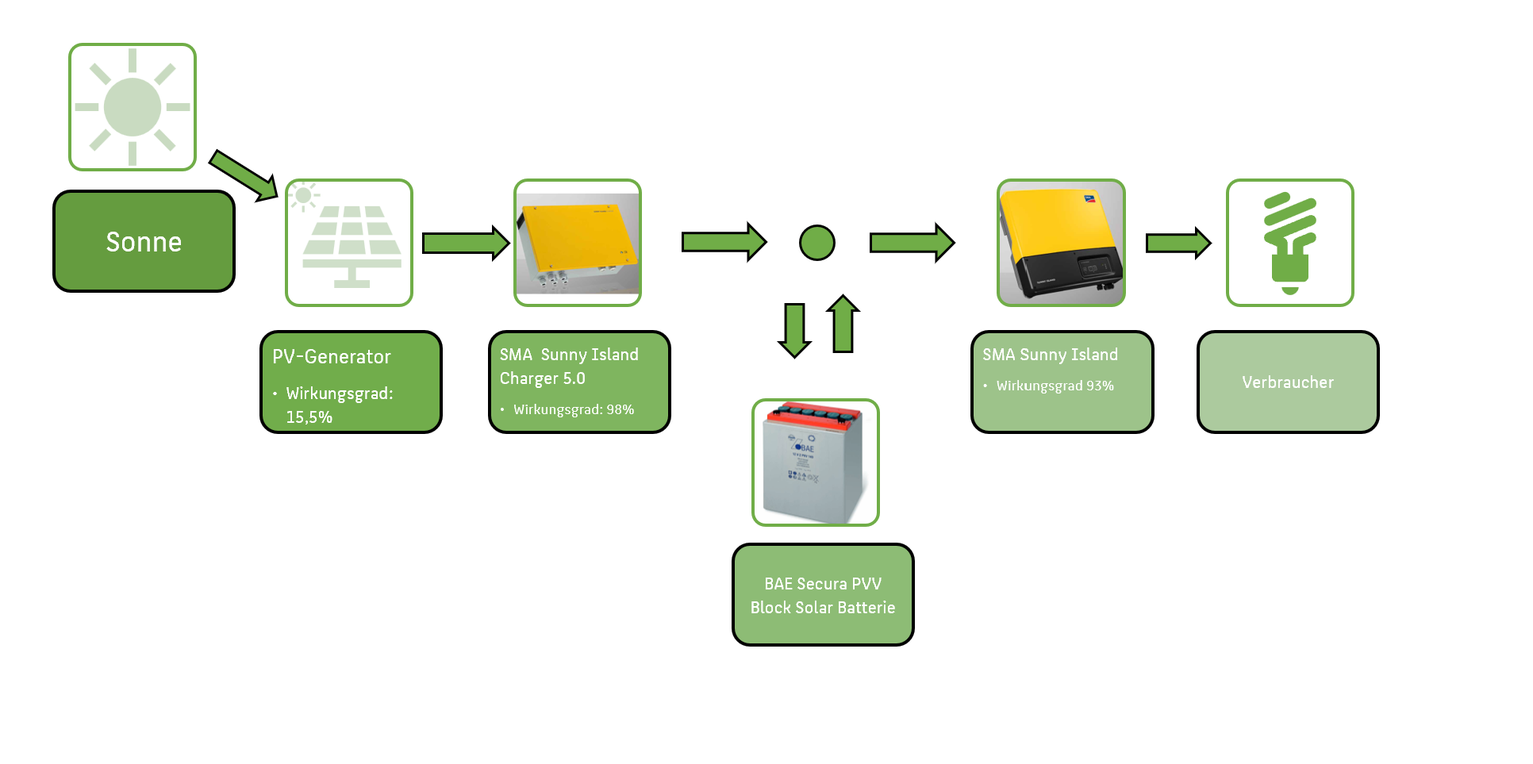
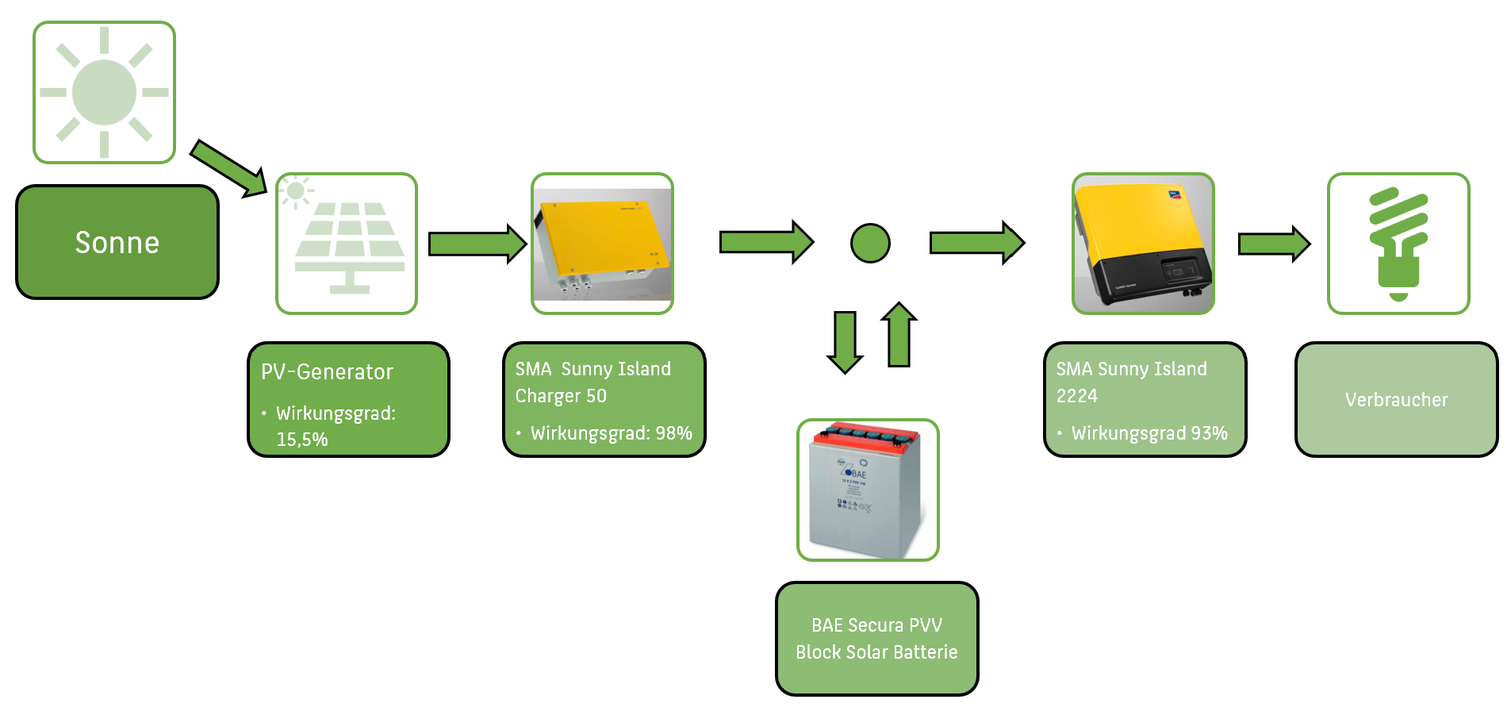
PV-Insel letzter Stand

Changed region(s): [[0.0, 0.0303, 1.0, 1.0]]

diff --git a/PV-Inselbetrieb/Sub-Files/Vorbereitungsfragen.tex b/PV-Inselbetrieb/Sub-Files/Vorbereitungsfragen.tex
@@ -2,18 +2,18 @@
 \section{Vorbereitungsfragen}
 \subsection{Photovoltaik-Inselanlage}
 \subsubsection{Anlagenkonzepte von PV-Inselanlagen }
-Die Konzepte unterscheiden durch die verwendeten
+Anlagenkonzepte unterscheiden sich durch die verwendeten
 Komponenten, die Verschaltung und die angeschlossenen Verbraucher.\\
-Das einfachste der vier Konzepte ist das direkte Verschalten der PV-Anlage mit
+Das einfachste Konzept ist das direkte Verschalten der PV-Anlage mit
 DC-Verbrauchern, hierbei kann es sich z.B. um ein Heizungssystem für ein Schwimmbecken handeln.\\
 Das zweite System wird durch eine Batterie ergänzt welche zwischen die PV-Anlage und die Verbraucher geschaltet ist.
 Mögliche Anwendungen sind einfache DC-Systeme, welche allerdings auch außerhalb der Sonnenstunden
 funktionieren müssen und dementsprechend einen Puffer benötigen. Ein Beispiel wäre hier ein solarversorgter Snackautomat.\\
-Das komplexeste System welches weiterhin für DC-Verbraucher gedacht ist, wird neben den Komponenten des zweiten Systems
+Das komplexeste System, welches weiterhin für DC-Verbraucher gedacht ist, wird neben den Komponenten des zweiten Systems
 um einen Laderegler ergänzt welcher vor die Batterie geschaltet wird. Solche Systeme werden häufig in
 Wohnmobilen oder Wohnwägen verwendet, welche mit DC-Verbrauchern ausgestattet sind.\\
 Um AC-Verbraucher nutzen zu können muss System 3 um einen Umrichter erweitert werden, welcher vor die Verbraucher geschaltet wird. Diese Systeme können dann Einfamilienhäuser, Forschungsstationen oder abgelegene Dörfer versorgen und ein Netz etablieren.\\ 
-\subsubsection{Die Anlagenkomponenten sollen im Inselsystem auf ihre Funktionsfähigkeit hin geprüft werden. Was messen Sie in welcher Reihenfolge?}
+\subsubsection{Prüfung der Funktionsfähigkeit von Anlagenkomponenten}
 Gemessen werden an allen Ein- und Ausgängen der Geräte sowohl der Strom als auch die Spannung.
 Beginnend mit dem Ausgang der PV-Anlage, wird dann entlang der Erzeugungslinie geprüft.
 So folgt die Prüfung des Ladereglers. Anschließend wird das Batteriesystem geprüft und abschließend der 
@@ -21,7 +21,7 @@ Umrichter.\\
 
 
 \subsection{Laderregler}
-\subsubsection{Welche Voraussetzungen müssen Anlagen mit Akku ohne Laderegler haben? Wann wird ein Laderegler notwendig?}
+\subsubsection{Voraussetzungen für Anlagen mit Akku ohne Laderegler}
 Inselnetzanlagen müssen in der Lage sein, die Ladung des Akkus und die Stromversorgung des angeschlossenen Verbrauchers zu gewährleisten. Dementsprechend müssen die einzelnen Bauteile aufeinander ausgelegt werden, um eine Beschädigung der Komponenten zu vermeiden. Ein Laderegler wird benötigt, sobald die Leerlaufspannung der Module die maximale Ladespannung der Batterie überschreitet, eine spannungsunabhängige Schaltung umgesetzt werden soll (bei größeren Anlagen) oder keine konstanten Wetterbedingungen garantiert werden können. Ein Laderegler sorgt dafür die Batterie vor Tiefenentladung und/oder Überladung zu schützen. In Kombination mit einem MPP-Tracker kann ein Laderegler auch den Energieertrag erhöhen. 
 \subsubsection{Verfahren zur Laderegelung}
 Es wird in drei unterschiedliche Arten von Ladereglern (LR) unterschieden:
@@ -46,9 +46,9 @@ Es wird in drei unterschiedliche Arten von Ladereglern (LR) unterschieden:
 \item MPP-Laderegler können auch bei wechselnden Wetterbedingungen beste Ladeleistungen erreichen. Nachteilig sind allerdings die hohen Anschaffungskosten.
 
 \end{itemize}
-\subsubsection{Es soll eine defekte Batterie des Batteriesystems aus der Anlage gewechselt werden. Geben Sie die Reihenfolge Ihres Vorgehens schrittweise an.}
-Das Wechseln der Batterie erfolgt in 7 einzelnen Schritten. Als erste sollte die Betriebsanleitung gelesen und danach die Last abgeschaltet und vom System getrennt werden. Darauffolgend muss sowohl der PV-Generator als auch die Batterie vom Laderegler getrennt werden. Nun kann die neue Batterie und dann der PV-Generator an den Laderegler angeschlossen werden. Als letztes wird die Last wieder angeschaltet.
-
+\subsubsection{Austausch defekter Batterien}
+Das Wechseln der Batterie erfolgt in sieben einzelnen Schritten. Als erstes sollte die Betriebsanleitung gelesen und danach die Last abgeschaltet und vom System getrennt werden. Darauffolgend muss sowohl der PV-Generator als auch die Batterie vom Laderegler getrennt werden. Nun kann die neue Batterie und dann der PV-Generator an den Laderegler angeschlossen werden. Als letztes wird die Last wieder angeschaltet.
+\newpage
 \subsection{Batteriesysteme}
 \subsubsection{Vor- und Nachteile von 2 Batterietypen}
 Die beiden am häufigsten verwendeten Akkumulatoren sind Blei- und Lithium-Ionen-Akkus.
@@ -58,11 +58,10 @@ Bei der Ladereglung von Batteriesystemen ist es besonders wichtig auf die Ladest
 
 \subsubsection{ Anforderungen an Batterieräume }
 Ein Batterieraum sollte trocken, gut belüftet, mit einem Rauchmelder ausgestattet und gleichmäßig im zulässigen Temperaturbereich temperiert sein.
-\subsubsection{Geben Sie die häufig eingesetzten Systemspannungen an! Was ist bei Gleichspannungsverbrauchern (insbesondere bei niedriger Spannung) im Vergleich zu Wechselstromverbrauchern zu beachten?}
-Häufige Systemspannungen sind 12 V, 24V, 48V, und 72V.
-Bei DC-Verbrauchern kann es zu hohen Strömen kommen weshalb große Kabelquerschnitte vorteilhafter sind.
-
-
+\subsubsection{Häufig eingesetzten Systemspannungen}
+Häufige eingesetzte Systemspannungen sind 12 V, 24V, 48V, und 72V.
+Bei DC-Verbrauchern kann es zu hohen Strömen kommen, weshalb große Kabelquerschnitte vorteilhafter sind.
+\newpage
 \subsection{Wechselrichter in PV-Inselanlagen}
 \subsubsection{Auswahlkriterien eines Insel-Wechselrichters}
 \begin{itemize}
@@ -71,15 +70,15 @@ Bei DC-Verbrauchern kann es zu hohen Strömen kommen weshalb große Kabelquersch
     \item Der Wirkungsgradbereich muss nach dem Lastverhalten des Inselnetzes ausgelegt werden.
     \item Der Umrichter muss die gleiche Phasen-Anzahl besitzen wie das System benötigt.
 \end{itemize}
-\subsubsection{Welche Insel-Wechselrichter-Typen können zum Einsatz kommen (Kosten beachten)?}
+\subsubsection{Insel-Wechselrichter-Typen}
 Mögliche Umrichter Typen:
 \begin{itemize}
     \item mit oder ohne inneren Trafo
     \item 3 Level oder Multi Level
-    \item 1 oder 3 Phasig
+    \item ein oder drei Phasig
     \item Single- oder Multistring
 \end{itemize} 
-\subsubsection{Woran erkennen Sie während des Betriebes einen 'schlechten' Wechselrichter? (niedriger Wirkungsgrad)?}
+\subsubsection{Schlechte Wechselrichter}
 
 \begin{itemize}
     \item Die Qualität der Spannung ist durch Oberschwingungen und Verzerrungen unzureichend.
@@ -101,39 +100,37 @@ Mögliche Umrichter Typen:
     \item Die Umrichter sollten für Wartungszwecke leicht zugänglich sein.
     \item Ein Brand sollte möglichst schnell erkannt werden, durch z.B. Brandmelder und sollte keine anderen Komponenten beeinflussen (durch genügend Abstand oder Abschirmung).
 \end{itemize}
-\subsubsection{Unter welchen Umständen muss am WR einer PV-Inselanlage sofortige Lastabschaltung erfolgen?}
+\subsubsection{Sofortige Lastabschaltung des Wechselrichters}
 Bei jedweder Gefahr für die Verbraucher:
 \begin{itemize}
     \item Überspannungen durch z.B. Blitzeinschlag
     \item Kurzschlüsse durch z.B. Hochwasser
-    \item Bei Feuer am Umrichter.
+    \item Feuer am Umrichter.
 \end{itemize}
-\subsubsection{Wie wirkt sich die benötigte Blindleistung auf die Dimensionierung des Wechselrichters aus?}
+\subsubsection{Auswirkungen der benötigten Blindleistung auf Dimensionierung des Wechselrichters}
 Durch zusätzlich benötigte Blindleistung muss der Umrichter nicht auf die Leistung des PV-Generators ausgelegt werden, sondern auf die Scheinleistung, welches er ins Netz geben muss.
 Diese wird also zusätzlich innerhalb des Umrichters generiert, führt aber zu größeren Leistungflüssen.\cite{SMA_Q-Auslegung}
 \subsubsection{Ein PC (einschließlich Peripherie) benötigt 120 W. Der Inselwechselrichter der unter 3. beschriebenen Anlage schaltet wegen Batterieerschöpfung nach 2 Tagen Betriebsdauer ab. Welche Möglichkeit des Dauerbetriebs der Anlage schlagen Sie vor. Begründen Sie die Realisierbarkeit.}
-Es wird ein Umrichter benötigt, welcher sowohl spannungsgeregelt als auch stromgereglet betrieben werden kann, um zwischen Insel- und Netzbetrieb wechseln zu können.
+Es wird ein sowohl Spannung als auch Strom regelnder Umrichter benötigt, um zwischen Insel- und Netzbetrieb wechseln zu können.
+\newpage
 \subsection{Einstrahlung und Umgebungsbedingungen}
-\subsubsection{Welche aus verschiedenen physikalischen Prinzipien resultierenden Messverfahren zur Erfassung der Globalstrahlung kennen Sie?}
+\subsubsection{Messverfahren zur Erfassung der Globalstrahlung}
 Es gibt 2 Physikalische Effekte, welche konventionell zur Messung der Globalstrahlung verwendet werden. 
 Der Photo-Effekt, welcher in Pyranometern mit Halbleitersensoren verwendet wird. 
 Dieser Basiert auf dem selben Prinzip wie eine Photovoltaikzelle und setzt die Einstrahlung in Proportion mit dem Strom.
-Außerdem kann der Seebeck-Effekt genutzt werden, welcher in thermischen Pyranometern verwendet wird.
-Hierbei wird eine von zwei miteinander verbundenen Metallplatten durch die Bestrahlung aufgeheizt. 
+Der Seebeck-Effekt wird genutzt, welcher in thermischen Pyranometern zur Anwendung kommt.
+Es wird eine von zwei miteinander verbundenen Metallplatten durch die Bestrahlung aufgeheizt. 
 Der Seebeck-Effekt besagt, dass durch eine Temperaturdifferenz zwischen 2 Leitermaterialien eine elektrische Spannung entsteht.\cite{Wiki-Seebeck}
 Dies hat den Vorteil, dass ein viel größerer Teil des Spektrums gemessen wird.
 
-\subsubsection{Welchen Einfluss haben diffuse und direkte Sonnenstrahlung auf die Leistung des PV-Generators?}
-Der PV-Generaotr kann problemlos sowohl direkter als auch diffuser Bestrahlung Leistung entnehmen. 
+\subsubsection{Einfluss diffuser und direkter Sonnenstrahlung auf die Leistung des PV-Generators}
+Der PV-Generator kann problemlos sowohl bei direkter als auch diffuser Bestrahlung Leistung entnehmen. 
 Jedoch hat die diffuse Einstrahlung eine geringere spezifische Leistung, da sie mehr Weg durch die Atmosphäre zurückgelegt hat und somit einige Wellenlängen durch Absorptionsbänder herausgefiltert wurden.
-\subsubsection{Wovon hängt die Modultemperatur ab und welchen Einfluss hat sie?}
-Die Modultemperatue wird durch mehrere Fakotern beeinflusst.
-\begin{itemize}
-    \item Die Umgebungstemperatur
-    \item Die Bestrahlungsstärke
-    \item Die Einbauart (Hinterlüftet, aktive Kühlung etc.)
-\end{itemize}
+\subsubsection{Modultemperatur}
+Die Modultemperatur wird durch mehrere Faktoren beeinflusst: die Umgebungstemperatur, die Bestrahlungsstärke und
+die Einbauart, wie zum Beispiel hinterlüftet, aktive Kühlung etc.
+
 Hierbei ist zu beachten, dass nicht alle Wellenlängen des Sonnenlichts in einem Modul in Wärme umgewandelt werden, nur welche mehr Energie als die Bandlücke besitzen.
-Diese erzeugen zwar auch ein Elektron-Loch-Paar, generieren aber durch die Übereregung Wärme innerhalb des Halbleiters.
+Diese erzeugen zwar auch ein Elektron-Loch-Paar, generieren aber durch die Übererregung Wärme innerhalb des Halbleiters.
 Die Modul Temperatur hat direkten Einfluss auf die Leistung des PV-Moduls.
 Bei steigender Temperatur sinkt die Modulspannung deutlich und der Modulstrom steigt minimal.

diff --git a/PV-Inselbetrieb/Sub-Files/Auswertung.tex b/PV-Inselbetrieb/Sub-Files/Auswertung.tex
@@ -2,20 +2,20 @@
 \section{Auswertung}
 \subsection{PV-Generatorwirkungsgrad}
 Die Messungen erfolgen bei 26°C um 12:37Uhr Ortszeit.
-Nach Aufnahme der grafischen Kennlinie wird eine Auswertung vorgenommen, 
+Nach Aufnahme der grafischen Kennlinie aus Abbildung 5 wird eine Auswertung vorgenommen und die Werte in  \autoref{tab:230515_Messdaten_PVGenKennlinie} eingetragen. 
 Der MPP wird mithilfe der Tangentensteigung abgeschätzt.
  
 \begin{table}[!ht]
 \centering
 \caption{Messdaten von Strom und Spannung in Abhängigkeit von Bestrahlungsstärke}
 \label{tab:230515_Messdaten_PVGenKennlinie}
-\begin{tabular}{|l|l|l|l|l|l|l|l|}
+\begin{tabularx}{\textwidth}{|r|X|X|X|X|X|X|X|}
 \hline
 \rowcolor[HTML]{76B900} 
                                             & $U_{Leer}$ in $V$ & $I_K$ in $A$ & $U_{MPP}$ in $V$ & $I_{MPP}$ in $A$ & E in $\frac{W}{m^2}$ & FF in \% & A in $m^2$ \\ \hline
 \cellcolor[HTML]{cfe5a8}feststehnde Anlage  & 41,7              & 10           & 31,6             & 9,5            & 670,10                      & 0,72     & 0,36    \\ \hline
 \cellcolor[HTML]{cfe5a8}nachgeführte Anlage & 41,6              & 9,7          & 32               & 9,37           & 650,00                      & 0,74     & 0,36     \\ \hline
-\end{tabular}
+\end{tabularx}
 \end{table}
 
 \begin{equation}
@@ -23,7 +23,7 @@ Der MPP wird mithilfe der Tangentensteigung abgeschätzt.
 \label{eq:230514_Wirkungsgrad_Generator}
 \end{equation}
 
-\subsubsection{feststehende Anlage}
+\subsubsection{Feststehende Anlage}
 \begin{equation}
 P_{MPP} = U_{MPP} \cdot I_{MPP}
 \label{eq:230514_Leistung_im_MPP}
@@ -37,7 +37,7 @@ Die Leistung eingesetzt in Formel \autoref{eq:230514_Wirkungsgrad_Generator}:\\
 $$\eta_{Gen,fest}=\frac{300,2W}{670\frac{W}{m^2}\cdot 8\cdot0,36 m^2}
 =0,15557 \approx 15,56\%$$\\
 Der Wirkungsgrad der feststehenden Anlage beträgt $15,56\%$.
-\subsubsection{nachgeführte Anlage}
+\subsubsection{Nachgeführte Anlage}
 Um den Wirkungsgrad des PV-Generators zu bestimmen muss zunächst die Leistung im MPP über Formel \autoref{eq:230514_Leistung_im_MPP} bestimmt werden:
 \\
 $$P_{MPP} = 32V \cdot 9,037A = 289,18W$$ \\
@@ -57,7 +57,7 @@ Die Wirkungsgrade für beide PV-Generatoren sind demnach naheliegend.
 
 \subsection{Wechselrichter}
 \subsubsection{Wirkungsgrad Kennlinie}
-Laut Datenblatt hat der Wechselrichter Sunny Island 2224 im Betrieb, ohne Last, einen Eigenverbrauch von 21W. 
+Laut Datenblatt hat der Wechselrichter Sunny Island 2224 im Betrieb und ohne Last, einen Eigenverbrauch von 21W. 
 In unserem Fall lag der Eigenverbauch ohne Last bei 29,7 W. 
 Der Eigenverbrauch wird dabei nach Formel \autoref{eq:230509_Eigenverbrauch} aus der Leistung am LR im Leerlauf bestimmt. 
 Der Eigenverbrauch des Wechselrichters hat seine Ursachen dabei größtenteils aus den Schaltvorgängen, der in ihm verbauten Halbleiter, und den Ohmschen Widerständen.
@@ -71,21 +71,22 @@ Der Eigenverbrauch des Wechselrichters hat seine Ursachen dabei größtenteils a
 \begin{table}[!ht]
     \caption{Messdaten der Ströme, Spannungn und Leistungen }
 	\centering
+	\small
 	\renewcommand{\arraystretch}{2}
-\begin{tabularx}{\linewidth}{|r|X|X|X|X|X|X|X|X|X|X|X|}
+\begin{tabularx}{\linewidth}{|l|l|X|X|X|X|X|X|X|X|X|X|}
 \hline
 \rowcolor[HTML]{76B900} 
 {\color[HTML]{000000} Aufgabe}          & {\color[HTML]{000000} $P_{Sonne}$} & {\color[HTML]{000000} $U_{Gen}$} & {\color[HTML]{000000} $I_{Gen}$} & {\color[HTML]{000000} $U_{LR}$} & {\color[HTML]{000000} $I_{LR}$} & {\color[HTML]{000000} $I_{Batt}$} & {\color[HTML]{000000} $I_{WR}$} & {\color[HTML]{000000} $P_{AC}$} & {\color[HTML]{000000} $U_{AC}$} & {\color[HTML]{000000} $I_{AC}$} & {\color[HTML]{000000} f} \\ \hline
 \rowcolor[HTML]{FFFFFF} 
-\cellcolor[HTML]{CFE5A8}${WR}_{allein}$      & 690                             & 39,3                          & 0,84                          & 25,4                         & 1,17                         & 0,15                           & 0,97                         & 12                           & 229,83                       & 0                            & 50Hz                       \\ \hline
+\cellcolor[HTML]{CFE5A8}${WR}_{allein}$      & 690 $\frac{W}{m^2}$                            & 39,3 $V$                         & 0,84 $A$                         & 25,4                        $V$ & 1,17 $A$                        & 0,15  $A$                         & 0,97                        $A$ & 12 $W$                          & 229,83 $V$                      & 0                           $A$ & 50Hz                       \\ \hline
 \rowcolor[HTML]{FFFFFF} 
-\cellcolor[HTML]{CFE5A8}$Staub_{1}$        & 550                             & 33,6                          & 7,84                          & 24,5                         & 8,9                          & -10,5                          & 21,9                         & 510                          & 228,5                        & 3,04                         & 55Hz\\ \hline
+\cellcolor[HTML]{CFE5A8}$Staub_{1}$        & 550$\frac{W}{m^2}$                                                        & 33,6 $V$                         & 7,84  $A$                        & 24,5                        $V$ & 8,9 $A$                         & -10,5 $A$                         & 21,9                        $A$ & 510 $W$                         & 228,5 $V$                       & 3,04                        $A$ & 55Hz\\ \hline
 \rowcolor[HTML]{FFFFFF} 
-\cellcolor[HTML]{CFE5A8}$Staub_{2}$        & 460                             & 32,2                          & 12,49                         & 23,3                         & 15,6                         & -27,2                          & 43,4                         & 942                          & 227,47                       & 4,33                         & 50Hz\\ \hline
+\cellcolor[HTML]{CFE5A8}$Staub_{2}$        & 460$\frac{W}{m^2}$                                                        & 32,2$V$                          & 12,49 $A$                        & 23,3                        $V$ & 15,6 $A$                        & -27,2 $A$                         & 43,4                        $A$ & 942 $W$                         & 227,47   $V$                    & 4,33                        $A$ & 50Hz\\ \hline
 \rowcolor[HTML]{FFFFFF} 
-\cellcolor[HTML]{CFE5A8}$Staub_{3}$        & 471                             & 36,8                          & 7,66                          & 23,2                         & 10,94                        & -46,2                          & 57,3                         & 1208                         & 226,98                       & 5,05                         & 50Hz\\ \hline
+\cellcolor[HTML]{CFE5A8}$Staub_{3}$        & 471$\frac{W}{m^2}$                                                        & 36,8 $V$                         & 7,66  $A$                        & 23,2                        $V$ & 10,94 $A$                       & -46,2 $A$                         & 57,3                        $A$ & 1208 $W$                        & 226,98    $V$                   & 5,05                        $A$ & 50Hz\\ \hline
 \rowcolor[HTML]{FFFFFF} 
-\cellcolor[HTML]{CFE5A8}S-Bahn Heizung & 601                             & 34,8                          & 16,15                         & 23,2                         & 20,51                        & -33,7                          & 55,7                         & 1186                         & 227,4                        & 5                            & 50Hz                    \\ \hline
+\cellcolor[HTML]{CFE5A8}$Heizung$ & 601$\frac{W}{m^2}$                                                        & 34,8   $V$                       & 16,15 $A$                        & 23,2                        $V$ & 20,51 $A$                        & -33,7 $A$                          & 55,7                        $A$ & 1186 $W$                        & 227,4 $V$                       & 5                           $A$ & 50Hz                    \\ \hline
 \end{tabularx}
 	\label{tab:230512_Messtabelle}
 \end{table}
@@ -180,8 +181,9 @@ In der Theorie sollte mit steigendem Blindleistungsbedarf ein immer größer Pha
 \begin{table}[!ht]
 \centering
 \caption{Leistungsbilanz}
+\small
 \renewcommand{\arraystretch}{1.5}
-\begin{tabularx}{\linewidth}{|X|X|X|X|X|X|X|X|X|}
+\begin{tabularx}{\linewidth}{|l|X|X|X|X|X|X|X|X|}
 \hline
 \rowcolor[HTML]{76B900} 
 Verbraucher &$P_{Sonne}$ & $P_{Gen_{DC}}$ & $P_{LR}$ & $P_{Bat}$ & $P_{WR_E}$ & $P_{AC}$ & $P_{Verluste}$ & Verluste \\ \hline
@@ -189,7 +191,7 @@ Verbraucher &$P_{Sonne}$ & $P_{Gen_{DC}}$ & $P_{LR}$ & $P_{Bat}$ & $P_{WR_E}$ & 
 \cellcolor[HTML]{CFE5A8}$Staub_{1}$     & 550$\frac{W}{m^2}$ & 263,42$W$ & 218,05$W$ &  257,25$W$ & 536,55$W$ & 510$W$ & 10,67$W$                  & 2,05\%    \\ \hline
 \cellcolor[HTML]{CFE5A8}$Staub_{2}$     & 460$\frac{W}{m^2}$ & 402,18$W$ & 363,48$W$ &  633,76$W$ & 1011,22$W$ & 942$W$ & 93,94$W$                  & 9,07\%    \\ \hline
 \cellcolor[HTML]{CFE5A8}$Staub_{3}$     &471$\frac{W}{m^2}$  & 281,89$W$ & 253,81$W$ & 1071,84$W$ & 1329,36$W$ & 1208$W$ & 145,73$W$                 & 10,8\%    \\ \hline
-\cellcolor[HTML]{CFE5A8}$SB_{Heizung}$  &601$\frac{W}{m^2}$  & 562,02$W$ & 475,83$W$ &  781,84$W$ & 1292,24$W$ & 1186$W$ & 157,86$W$                  & 11,75\%    \\ \hline
+\cellcolor[HTML]{CFE5A8}$Heizung$  &601$\frac{W}{m^2}$  & 562,02$W$ & 475,83$W$ &  781,84$W$ & 1292,24$W$ & 1186$W$ & 157,86$W$                  & 11,75\%    \\ \hline
 \end{tabularx}
 \label{tab:230514_Leistungsbilanz}
 \end{table}

diff --git a/PV-Inselbetrieb/Sub-Files/Versuchsdurchfuehrung.tex b/PV-Inselbetrieb/Sub-Files/Versuchsdurchfuehrung.tex
@@ -1,25 +1,25 @@
 \newpage
 \section{Versuchsdurchführung}
 Der Versuch wurde entsprechend der Anweisungen aus der Laboranleitung \cite{Laboranleitung} durchgeführt.
-Zu Beginn wurde unter Anleitung und Erklärung der Laborleitung Fr. Kupzok die
-Funktionalität der Anlage geprüft und sichergestellt, dass Alles korrekt angeschlossen ist.\\
-Die erste Messung hatte nun das Ziel den Generatorwirkungsgrad beider PV-Generatoren im Aufbau 2, also im DC-Betrieb zu bestimmen
-und zusätzlich jeweils eine PV-Kennlinie aufzuzeichnen. Hierfür wurde die benötigte Messtechnik angeschlossen und ein verstellbarer Widerstand verschaltet.
-Ebenfalls wurde die Bestrahlungsstärke mit einem Pyranometer gemessen.\\
+Zu Beginn wird unter Anleitung und Erklärung der Laborleitung Fr. Kupzok die
+Funktionalität der Anlage geprüft und sichergestellt, so dass die Anlage und Komponenten korrekt angeschlossen sind.\\
+Die erste Messung hat das Ziel den Generatorwirkungsgrad beider PV-Generatoren im Aufbau 2 (DC-Betrieb) zu bestimmen.
+Zusätzlich wird jeweils eine PV-Kennlinie aufzuzeichnen. Hierfür wird die benötigte Messtechnik angeschlossen und ein verstellbarer Widerstand verschaltet.
+Während der Versuche wird die Bestrahlungsstärke mit einem Pyranometer gemessen.\\
 \begin{figure}[!ht]
 		\centering
 		\includegraphics[width=0.7\textwidth]{Abbildungen/Kennlinie_PVGEN}
-		\caption{Wirkungsgradkennlinie des PV-Generators in Abhängigkeit von der Bestrahlungsstärke}
+		\caption{Kennlinie des PV-Generators in Abhängigkeit von der Bestrahlungsstärke}
 		\label{fig:230514_PVGEN_Kennlinie}
 \end{figure}
 
-Mittels des verstellbaren Widerstandes wurde das System in den Leerlauf geführt und dann die Leerlaufspannung bestimmt.
-Durch das Überbrücken des Widerstandes wurde dann ebenfalls der Kurzschlussfall herbeigeführt und der Kurzschlusstrom gemessen.\\
-Im zweiten Teil des Versuches wurde nun Aufbau 1 verwendet, welcher den AC-Betrieb ermöglicht.
+Mittels des verstellbaren Widerstandes wird das System in den Leerlauf geführt und dann die Leerlaufspannung bestimmt.
+Durch das Überbrücken des Widerstandes wird der Kurzschlussfall herbeigeführt und der Kurzschlusstrom gemessen.\\
+Im zweiten Teil des Versuches wird Aufbau 1 verwendet, welcher den AC-Betrieb ermöglicht.
 Ziel des zweiten Teils ist die Ermittlung der in der Anleitung \cite[S.8]{Laboranleitung} aufgeführten Kennwerte.\\
 Hierzu gehören die Umgebungstemperatur, Bestrahlungsstärke, sowie Spannungen und Ströme an den relevanten Komponenten.
-Zusätzlich wurde auch der zeitliche Spannungsverlauf des Wechselrichters auf der AC-Seite mit einem Oszillogramm aufgenommen.
-Diese Kennwerte wurden für die folgenden Belastungsfälle bestimmt:
+Zusätzlich wird auch der zeitliche Spannungsverlauf des Wechselrichters auf der AC-Seite mit einem Oszillogramm aufgenommen.
+Diese Kennwerte wird für die folgenden Belastungsfälle bestimmt:
 \begin{itemize}
     \item Ohne Last, nur der Wechselrichter ist in Betrieb
     \item geringe Ohmsche-induktive Last, Staubsauger Stufe 1

diff --git a/PV-Inselbetrieb/Sub-Files/Versuchsziele.tex b/PV-Inselbetrieb/Sub-Files/Versuchsziele.tex
@@ -1,13 +1,8 @@
 \section{Versuchsziele}
-Der Versuch 'Photovoltaik-Inselbetrieb' verfolgt das Ziel die Komplexität eines 
- Photovoltaik-Inselsystems zu verstehen. Dabei wird das System sowohl als System 
- für DC-Verbraucher als auch für AC-Verbraucher betrachtet. Des Weiteren ist das
- Verstehen und Aufstellen von Energiebilanzen ein entscheidener Teil der Betrachtung.\\
- Die Relevanz von Photovoltaik-Inselanlagen und damit der Grund für die Durchführung
- dieses Versuches liegt in der vollständigen Unabhängigkeit der Systeme. Die damit
- verbundenen Möglichkeiten reichen von der Versorgung kleinerer elektrischer Geräte
- wie Taschenrechner, Uhren oder GPS-Tracker bis hin zu der Möglichkeit eine Stromversorgung,
- inklusive Netz, für größere Geräte herzustellen.
+Der Versuch 'Photovoltaik-Inselbetrieb' beleuchtet zum tieferen Verständnis das Anlagenkonzept eines Photovoltaik-Inselsystems . Das System wird sowohl als System 
+ für DC-Verbraucher als auch für AC-Verbraucher betrachtet. Das
+ Verstehen und Aufstellen von Energiebilanzen wird geschult.\\
+ Die Relevanz von Photovoltaik-Inselanlagen ist die vollständige Unabhängigkeit der Systeme. Die damit verbundenen Möglichkeiten reichen von der Versorgung kleinerer elektrischer Geräte wie Taschenrechner, Uhren oder GPS-Tracker bis hin zu der Möglichkeit eine Stromversorgung mit eigenem Netz für größere Geräte herzustellen.
  Mögliche Anwendungsbereiche sind hier die Versorgung von Geräten an Standorten
  an denen ein Netzanschluss nicht möglich ist, z.B. auf einer Bohr- oder Forschungsinsel
  oder dort wo noch kein Netz existiert und eine Inselanlage den ersten sicheren

diff --git a/PV-Inselbetrieb/Sub-Files/Anhang.tex b/PV-Inselbetrieb/Sub-Files/Anhang.tex
@@ -1,2 +1,2 @@
 \section{Anhang}
-In den Anhang gehört eine Kopie aller aufgenommenen Messdaten (vor der Weiterverarbeitung), ggf. mit Anmerkungen, sowie Datenblätter von Messgeräten und Maschinen soweit verfügbar.
+Die Messwerte sind in der Datei 'PV-Inselversuch-GR5.xls' zu finden.

diff --git a/PV-Inselbetrieb/Sub-Files/title.tex b/PV-Inselbetrieb/Sub-Files/title.tex
@@ -8,6 +8,8 @@
 		
 %Hochschulspezifische Informationen, Hochschule, Fachbereich, Adresse, etc.
 	\begin{center}
+	\includegraphics[width=0.5\textwidth]{Abbildungen/stationäre PV}
+	
 		\vspace*{\fill}
 		{\Large Hochschule f{\"u}r Technik und Wirtschaft Berlin}\\
 			\bigskip
